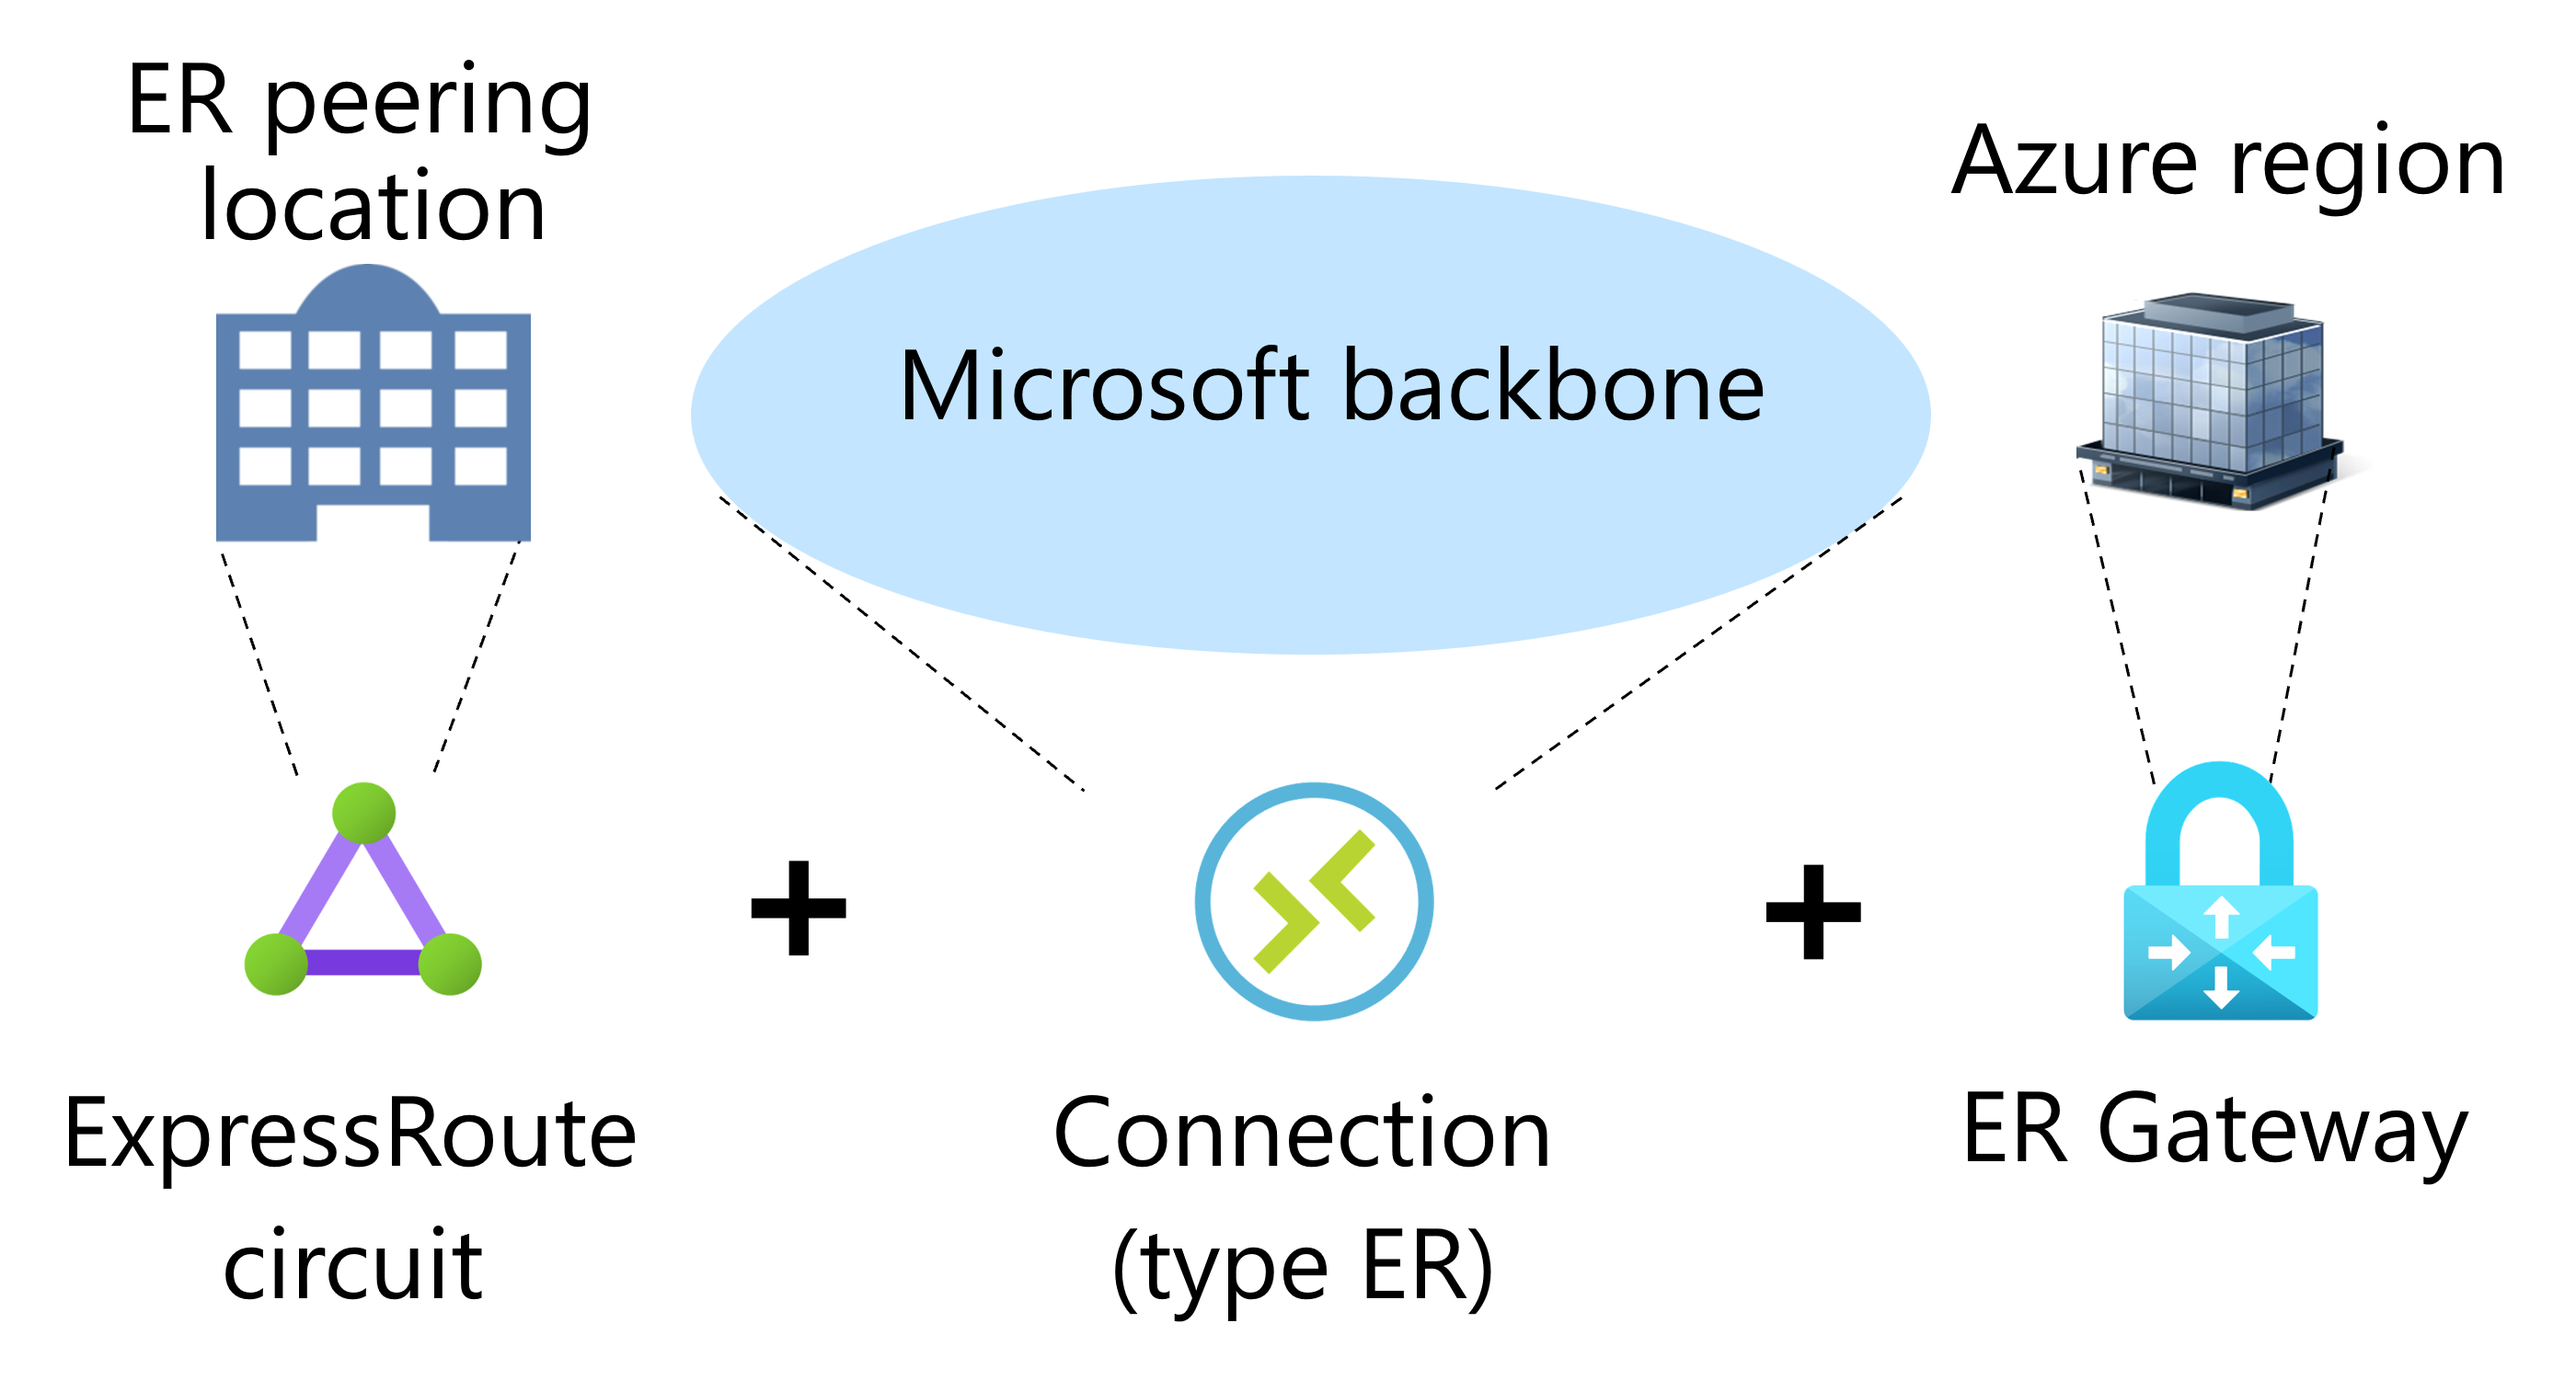
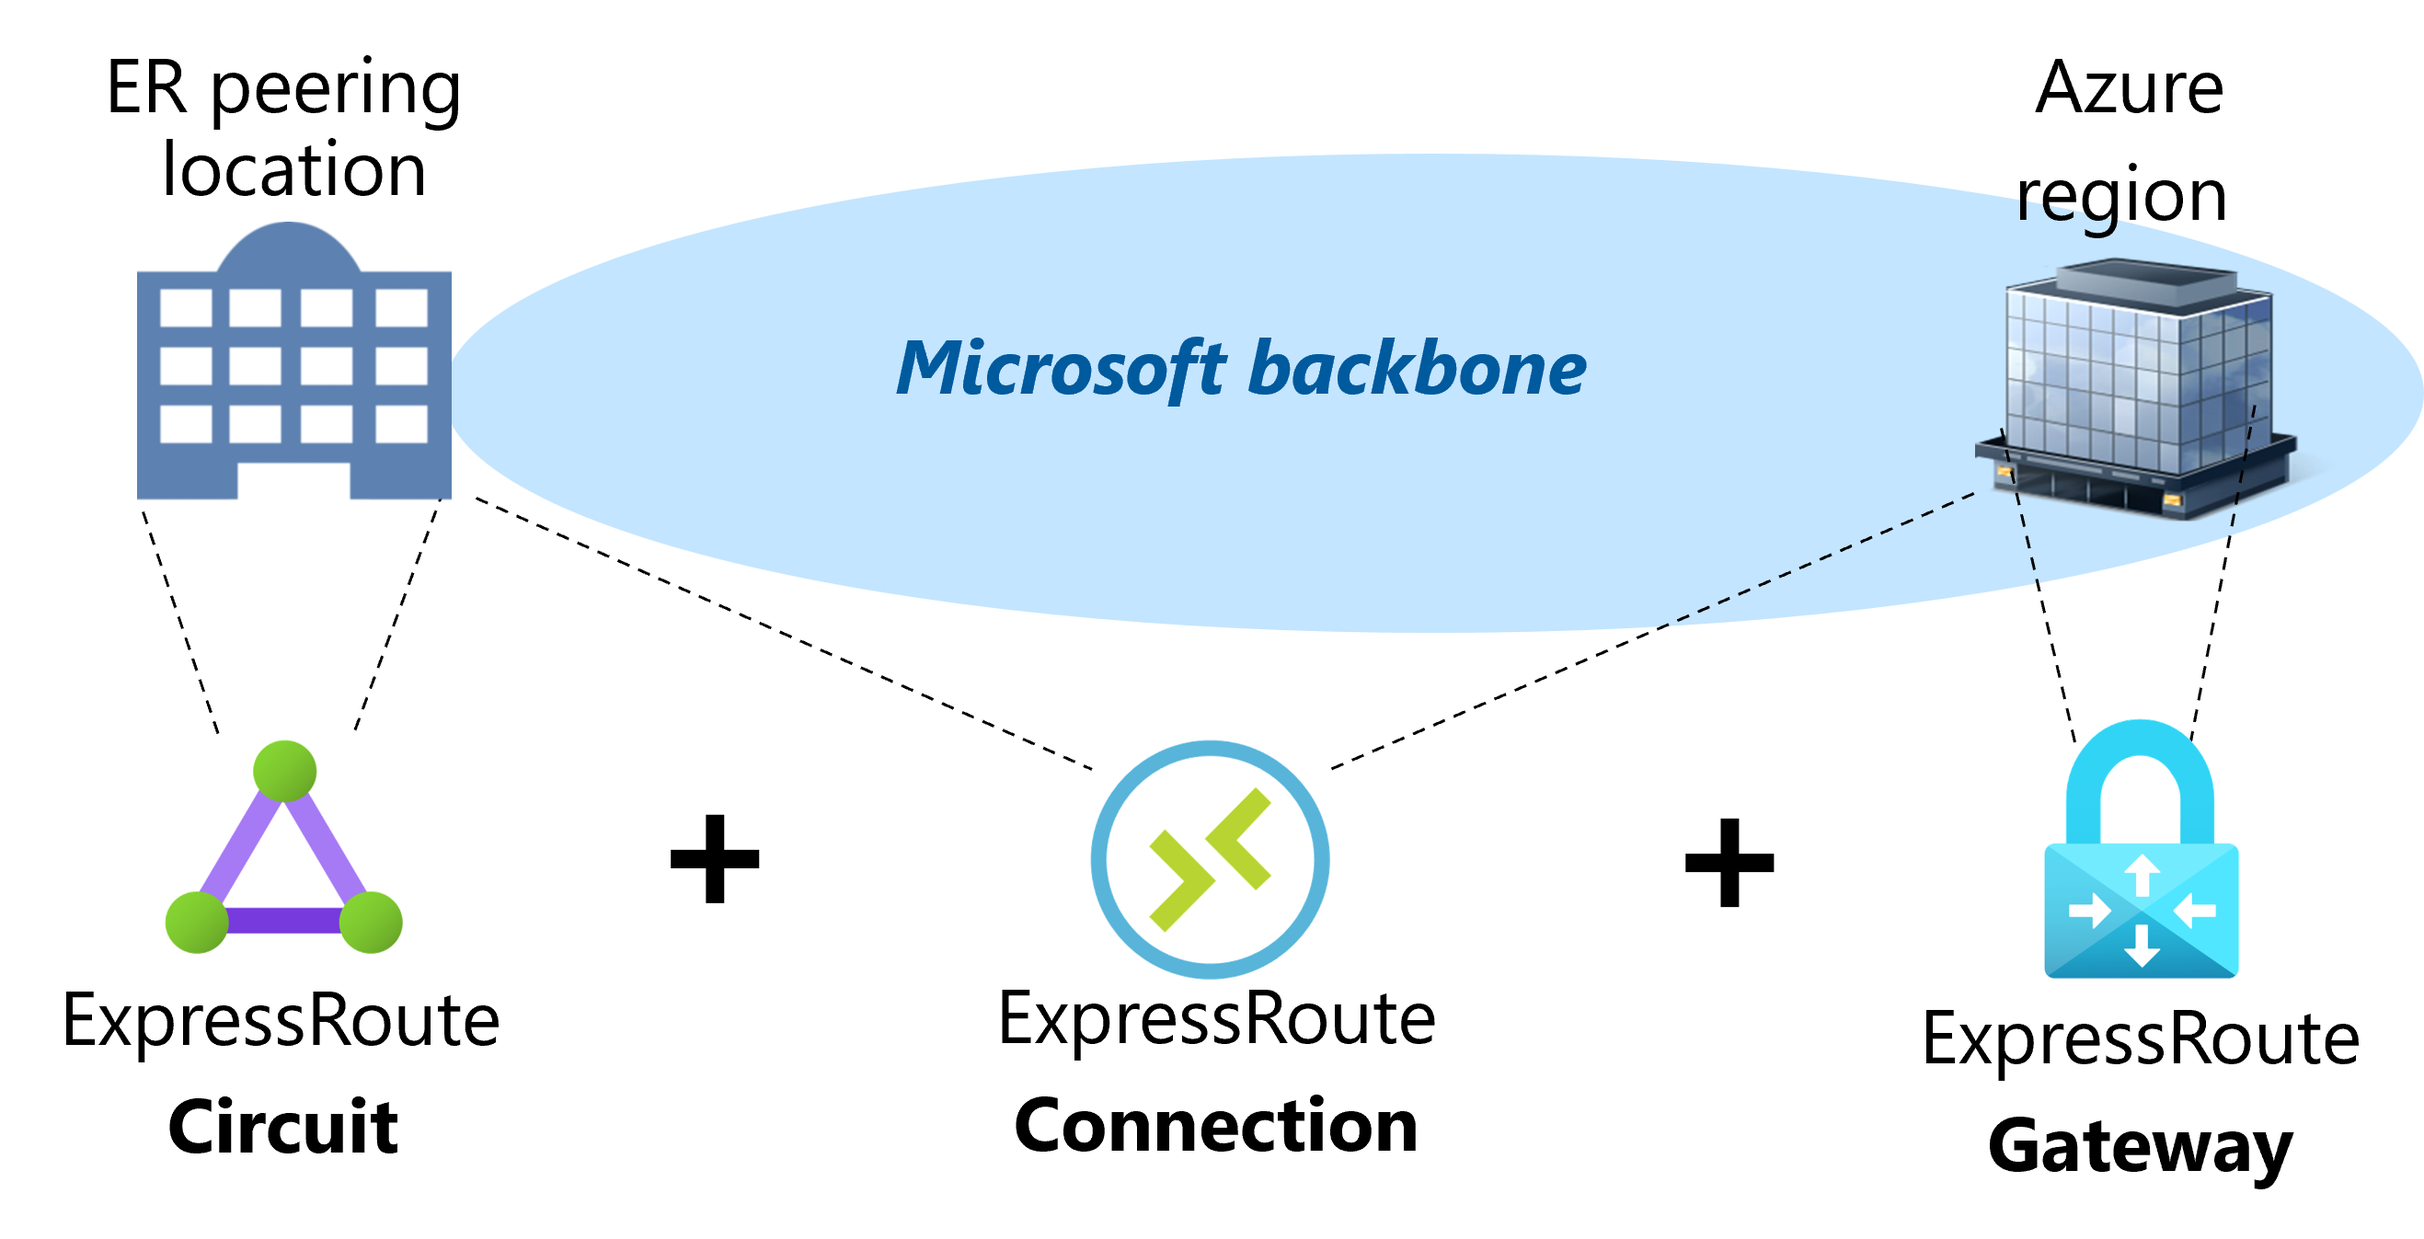
diagram updated

diff --git a/README.md b/README.md
@@ -25,12 +25,13 @@ This article is co-authored by Microsoft colleague [David Santiago](https://gith
 This article focuses on [ExpressRoute](https://learn.microsoft.com/en-us/azure/expressroute/expressroute-introduction) Private Peering only, to connect an On-Prem network and VNets in an Azure hub-and-spoke or Virtual WAN environment.
 
 ExpressRoute connectivity is provided in [ExpressRoute peering locations](https://learn.microsoft.com/en-us/azure/expressroute/expressroute-locations). ExpressRoute peering locations are entry points into the Microsoft backbone, [Azure regions](https://azure.microsoft.com/en-us/explore/global-infrastructure/geographies/#overview) are where the Azure resources are hosted: distinct concepts at different locations. 
+
  
 # 1. ExpressRoute components
 
 3 main components: the Circuit, the Gateway and the Connection.
 
-![](<images/er-architecture.png>)
+![](<images/er-components.png>)
 
 | **Components** | **Connectivity** | **Location** |
 |---|---|---|
@@ -39,6 +40,8 @@ ExpressRoute connectivity is provided in [ExpressRoute peering locations](https:
 |ExpressRoute Connection|Virtual connection between the MSEE and the ExpressRoute Gateway|ExpressRoute location to Azure region|
 
 The provider must ensure redundant connectivity to either the customer edge routers or their MPLS edge routers.
+
+![](<images/er-architecture.png>)
 
 # 2. ExpressRoute models
 
